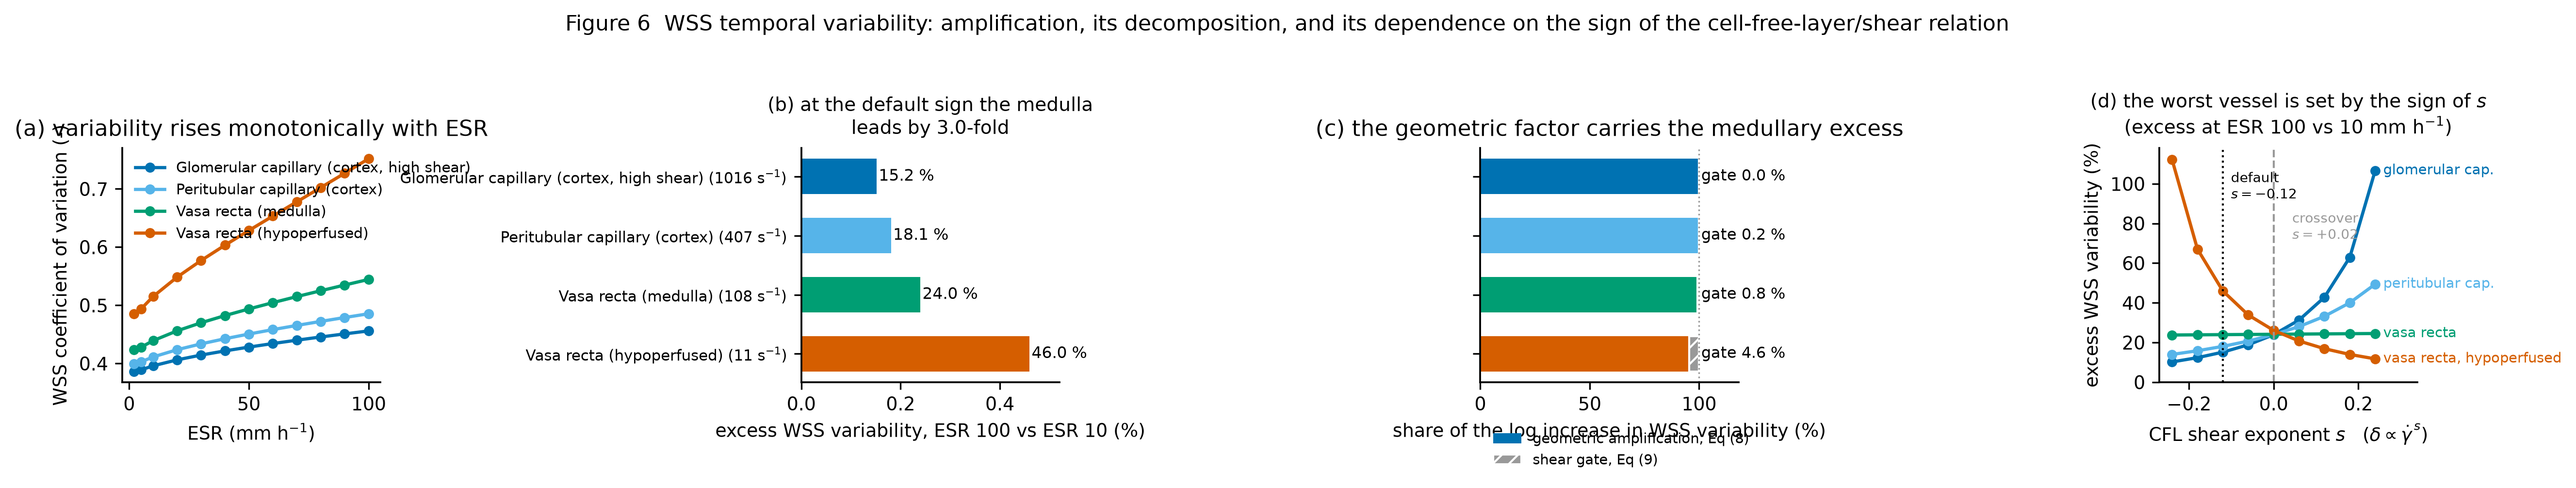
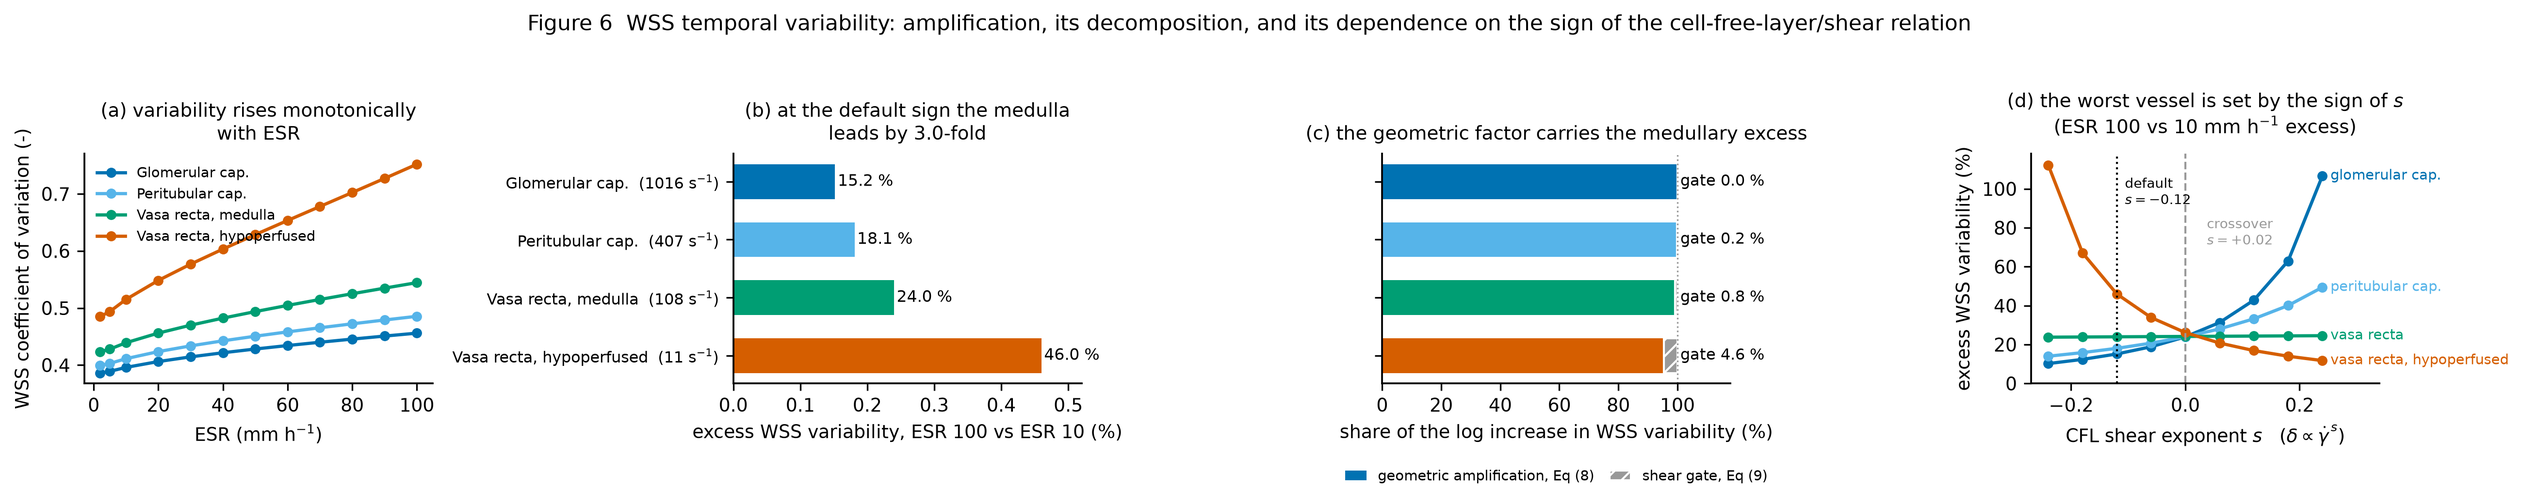
Fix overlapping labels in Figure 6
Panel (a): the single-line title overflowed the axes and the long legend
entries bled into panel (b)'s tick labels; the title is now two lines and the
legend uses the compact vessel names.

Panel (b): y-axis tick labels use the same compact names, so they no longer
reach into panel (a).

Panel (c): the legend sat on top of the x-axis title; it now sits below it on a
single two-column row.

QC scripts: add X23, which re-renders Figure 6 and fails if any two text
labels overlap.

diff --git a/code/make_ms_figures.py b/code/make_ms_figures.py
@@ -51,6 +51,12 @@ VESSEL_LABEL = {"Glomerular capillary": "Glomerular capillary\n(cortex, high she
                 "Peritubular capillary": "Peritubular capillary\n(cortex)",
                 "Vasa recta (medulla)": "Vasa recta\n(medulla)",
                 "Vasa recta - hypoperfused": "Vasa recta\n(hypoperfused)"}
+# compact names, used where the full label would collide with a neighbouring
+# panel (Figure 6a legend, Figure 6b tick labels)
+VESSEL_SHORT = {"Glomerular capillary": "Glomerular cap.",
+                "Peritubular capillary": "Peritubular cap.",
+                "Vasa recta (medulla)": "Vasa recta, medulla",
+                "Vasa recta - hypoperfused": "Vasa recta, hypoperfused"}
 VESSEL_COL = {"Glomerular capillary": CB["blue"],
               "Peritubular capillary": CB["sky"],
               "Vasa recta (medulla)": CB["green"],
@@ -231,17 +237,17 @@ def figure6():
     for v in VESSEL_ORDER:
         sub = vs[vs.vessel == v].sort_values("ESR_mm_h")
         a.plot(sub.ESR_mm_h, sub.WSS_CV, "o-", ms=4, lw=1.6, color=VESSEL_COL[v],
-               label=VESSEL_LABEL[v].replace("\n", " "))
-    a.set(xlabel="ESR (mm h$^{-1}$)", ylabel="WSS coefficient of variation (-)",
-          title="(a) variability rises monotonically with ESR")
-    a.legend(fontsize=7.2, loc="upper left")
+               label=VESSEL_SHORT[v])
+    a.set(xlabel="ESR (mm h$^{-1}$)", ylabel="WSS coefficient of variation (-)")
+    a.set_title("(a) variability rises monotonically\nwith ESR", fontsize=9.4, pad=7)
+    a.legend(fontsize=7.0, loc="upper left")
     b = ax[1]
     gamma = fc.gamma_w_s.values.astype(float)
     excess = np.array([float(str(fc.loc[v, "d_WSS_CV"]).rstrip("x")) for v in VESSEL_ORDER]) - 1.0
     b.barh(np.arange(len(VESSEL_ORDER)), excess, color=[VESSEL_COL[v] for v in VESSEL_ORDER], height=0.6)
     b.set_yticks(np.arange(len(VESSEL_ORDER)))
-    b.set_yticklabels([f"{VESSEL_LABEL[v].replace(chr(10),' ')} ({g:.0f} s$^{{-1}}$)"
-                       for v, g in zip(VESSEL_ORDER, gamma)], fontsize=7.4)
+    b.set_yticklabels([f"{VESSEL_SHORT[v]}  ({g:.0f} s$^{{-1}}$)"
+                       for v, g in zip(VESSEL_ORDER, gamma)], fontsize=7.6)
     for i, e in enumerate(excess):
         b.text(e + 0.004, i, f"{e*100:.1f} %", va="center", fontsize=8)
     b.set(xlabel="excess WSS variability, ESR 100 vs ESR 10 (%)", xlim=(0, 0.52))
@@ -270,13 +276,15 @@ def figure6():
     c.barh(y, share_gate, left=share_geo, color=CB["grey"], height=0.6, hatch="///",
            edgecolor="white", label="shear gate, Eq (9)")
     c.set_yticks(y); c.set_yticklabels([])
-    c.set(xlim=(0, 118), xlabel="share of the log increase in WSS variability (%)",
-          title="(c) the geometric factor carries the medullary excess")
+    c.set(xlim=(0, 118), xlabel="share of the log increase in WSS variability (%)")
+    c.set_title("(c) the geometric factor carries the medullary excess",
+                fontsize=9.4, pad=7)
     c.invert_yaxis()
     for i, (sg, sgeo) in enumerate(zip(share_gate, share_geo)):
         c.text(101, i, f"gate {sg:.1f} %", va="center", fontsize=7.6, color=CB["black"])
     c.axvline(100, color=CB["grey"], lw=0.8, ls=":")
-    c.legend(fontsize=7.0, loc="lower left", bbox_to_anchor=(0.0, -0.42), ncol=1)
+    c.legend(fontsize=7.0, loc="upper center", bbox_to_anchor=(0.5, -0.32), ncol=2,
+             columnspacing=1.1, handlelength=1.5)
 
     # ---- (d) robustness to the SIGN of the CFL / shear-rate relation
     d = ax[3]
@@ -303,7 +311,7 @@ def figure6():
           xlabel="CFL shear exponent $s$   ($\\delta \\propto \\dot{\\gamma}^{\\,s}$)",
           ylabel="excess WSS variability (%)")
     d.set_title("(d) the worst vessel is set by the sign of $s$\n"
-                "(excess at ESR 100 vs 10 mm h$^{-1}$)", fontsize=9.4, pad=7)
+                "(ESR 100 vs 10 mm h$^{-1}$ excess)", fontsize=9.4, pad=10)
 
     fig.suptitle("Figure 6  WSS temporal variability: amplification, its decomposition, "
                  "and its dependence on the sign of the cell-free-layer/shear relation",

diff --git a/code/crosscheck_submission.py b/code/crosscheck_submission.py
@@ -242,6 +242,61 @@ _cf2 = (_export / "CITATION.cff").read_text(encoding="utf-8")
 chk("0000-0002-3474-7984" in _cf2,
     "X22 CITATION.cff lacks the author ORCID")
 
+# X23 Figure 6 must render without any overlapping text label (panel titles,
+#     tick labels, legends, annotations).  The figure is re-rendered here
+#     in-memory, so the check is independent of the stored PNG/TIFF.
+import matplotlib
+matplotlib.use("Agg")
+import matplotlib.pyplot as plt
+import importlib.util as _ilu
+
+_spec = _ilu.spec_from_file_location("_mfig", HERE / "code" / "make_ms_figures.py")
+_mfig = _ilu.module_from_spec(_spec)
+_spec.loader.exec_module(_mfig)
+
+
+def _fig6_texts(fig):
+    fig.canvas.draw()
+    r = fig.canvas.get_renderer()
+    out = []
+    for ax in fig.axes:
+        x0, x1 = sorted(ax.get_xlim())
+        y0, y1 = sorted(ax.get_ylim())
+        items = [ax.title, ax.xaxis.label, ax.yaxis.label]
+        items += [t.label1 for t in ax.xaxis.get_major_ticks()
+                  if x0 - 1e-9 <= t.get_loc() <= x1 + 1e-9]
+        items += [t.label1 for t in ax.yaxis.get_major_ticks()
+                  if y0 - 1e-9 <= t.get_loc() <= y1 + 1e-9]
+        items += list(ax.texts)
+        leg = ax.get_legend()
+        if leg is not None:
+            items += list(leg.get_texts())
+        for t in items:
+            if t is None or not t.get_text().strip():
+                continue
+            bb = t.get_window_extent(renderer=r)
+            if bb.width > 0 and bb.height > 0:
+                out.append((t.get_text(), bb))
+    return out
+
+
+_mfig.save = lambda fig, name: None            # never touch the figures on disk
+plt.close("all")
+_mfig.figure6()
+_f6 = plt.figure(plt.get_fignums()[-1])
+_txt = _fig6_texts(_f6)
+_clash = []
+for _i in range(len(_txt)):
+    for _j in range(_i + 1, len(_txt)):
+        _a, _ba = _txt[_i]
+        _b, _bb = _txt[_j]
+        if (min(_ba.x1, _bb.x1) - max(_ba.x0, _bb.x0) > 0.5 and
+                min(_ba.y1, _bb.y1) - max(_ba.y0, _bb.y0) > 0.5):
+            _clash.append("%s <-> %s" % (_a[:26], _b[:26]))
+plt.close(_f6)
+chk(not _clash, "X23 Figure 6 has overlapping text labels: %s" % _clash[:3])
+chk(len(_txt) >= 40, "X23 Figure 6 text labels found: %d" % len(_txt))
+
 print("=" * 70)
 print("INDEPENDENT CROSS-CHECK   checks run: %d" % n)
 print("=" * 70)
